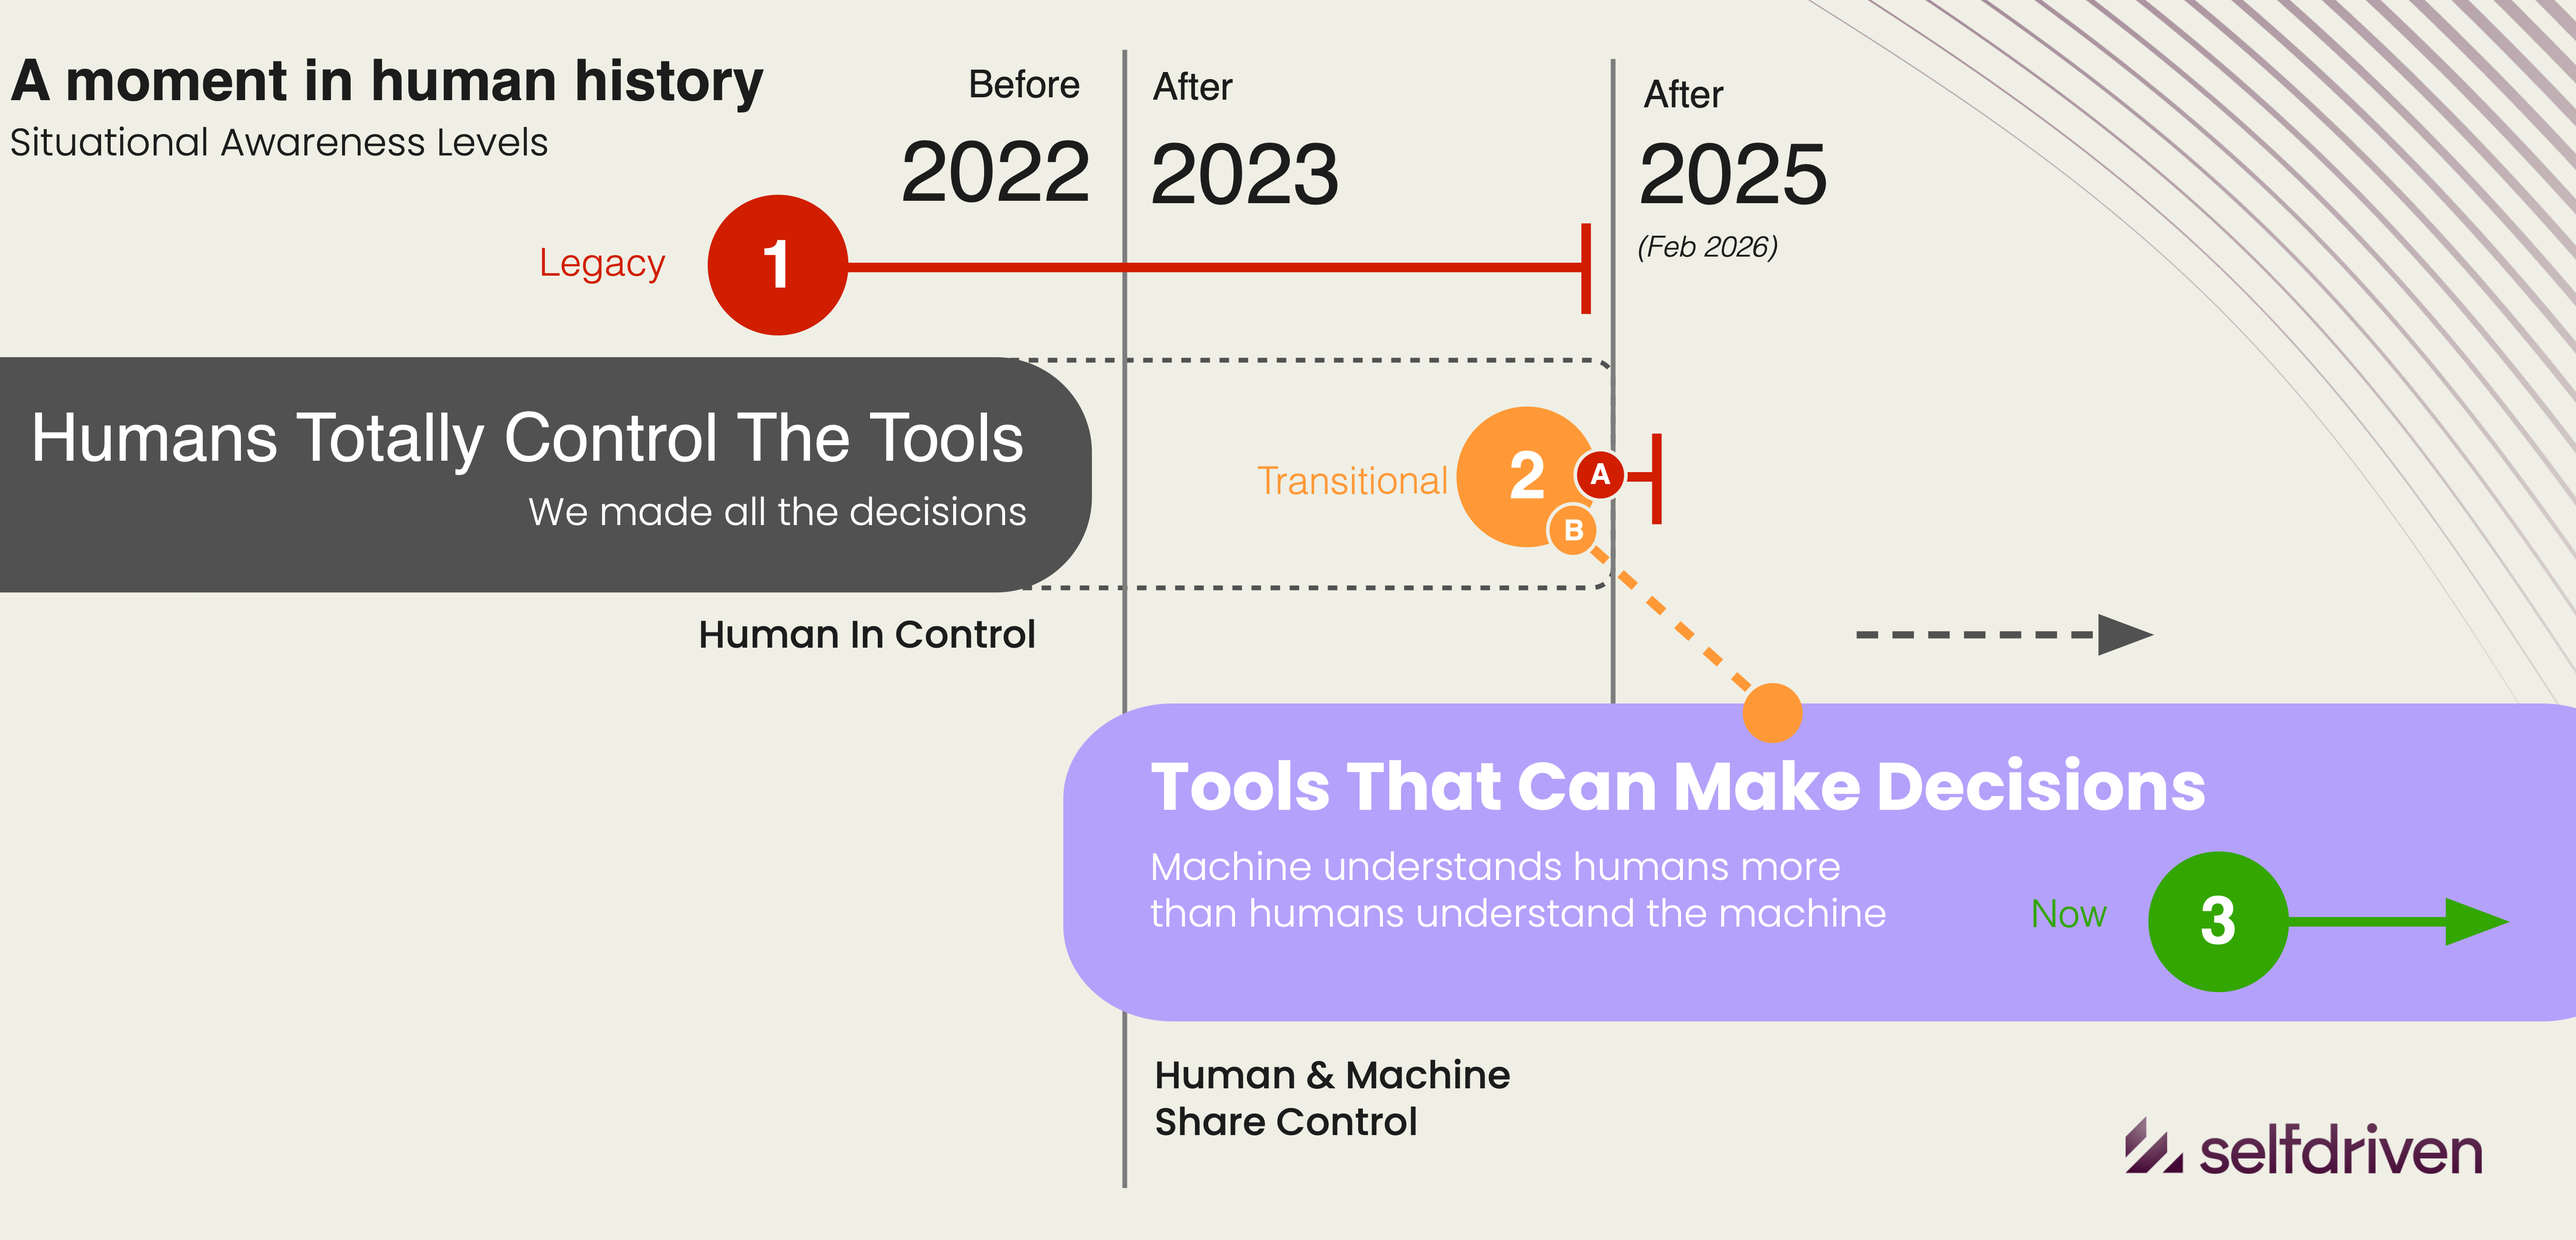
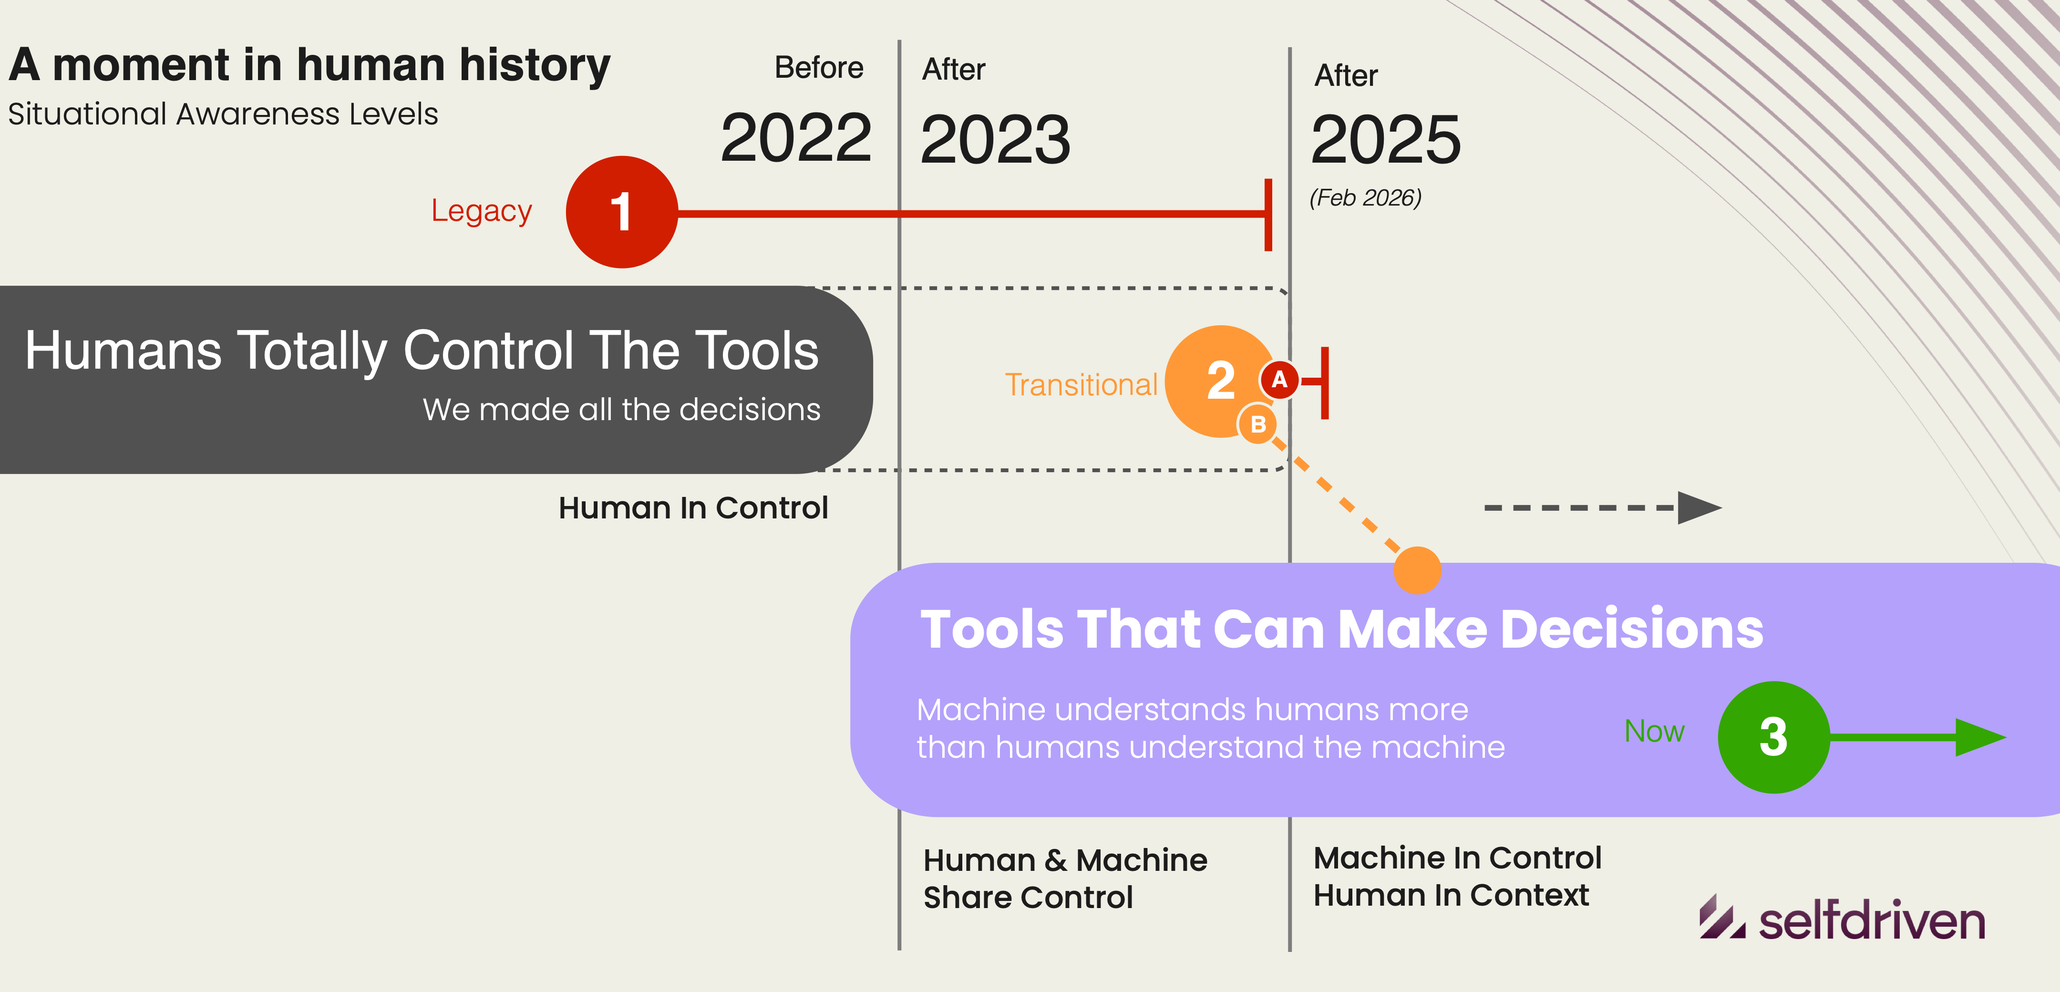
update MAR2026

Changed region(s): [[0.4375, 0.6875, 0.75, 0.7812], [0.625, 0.8438, 0.7812, 0.9375], [0.6562, 0.1875, 0.6875, 0.2188]]

diff --git a/docs/pages/situational-awareness-framework-organisations.md b/docs/pages/situational-awareness-framework-organisations.md
@@ -70,12 +70,10 @@ permalink: /situational-awareness-framework/organisations/
 - Use recursive oversight AI ("AI watching AI") for alignment.
 - Redefine leadership around meaning, foresight, and human purpose.
 
-
-
 ## Summary
 
 | Level | Situation | Description | Strategic Risk | Relevance Horizon | Evolution Focus |
 |::|:|:- |:|:|:-|
 | **1** | Legacy, Human-in-Control | Humans make all decisions; tools follow | Obsolescence | 2–3 years | AI literacy, data integration        |
 | **2** | Transitional, Human + Machine  | Shared decisions; humans interpret AI | Bias / drift | 3–5 years | Explainability, oversight, provenance|
-| **3** | Emerging, Machine-in-Control | Machines act autonomously within human ethics | Alignment loss | Long-term | Trust frameworks, ethical governance |
+| **3** | Now, Machine-in-Control | Machines act autonomously within human ethics | Alignment loss | Long-term | Trust frameworks, ethical governance |
